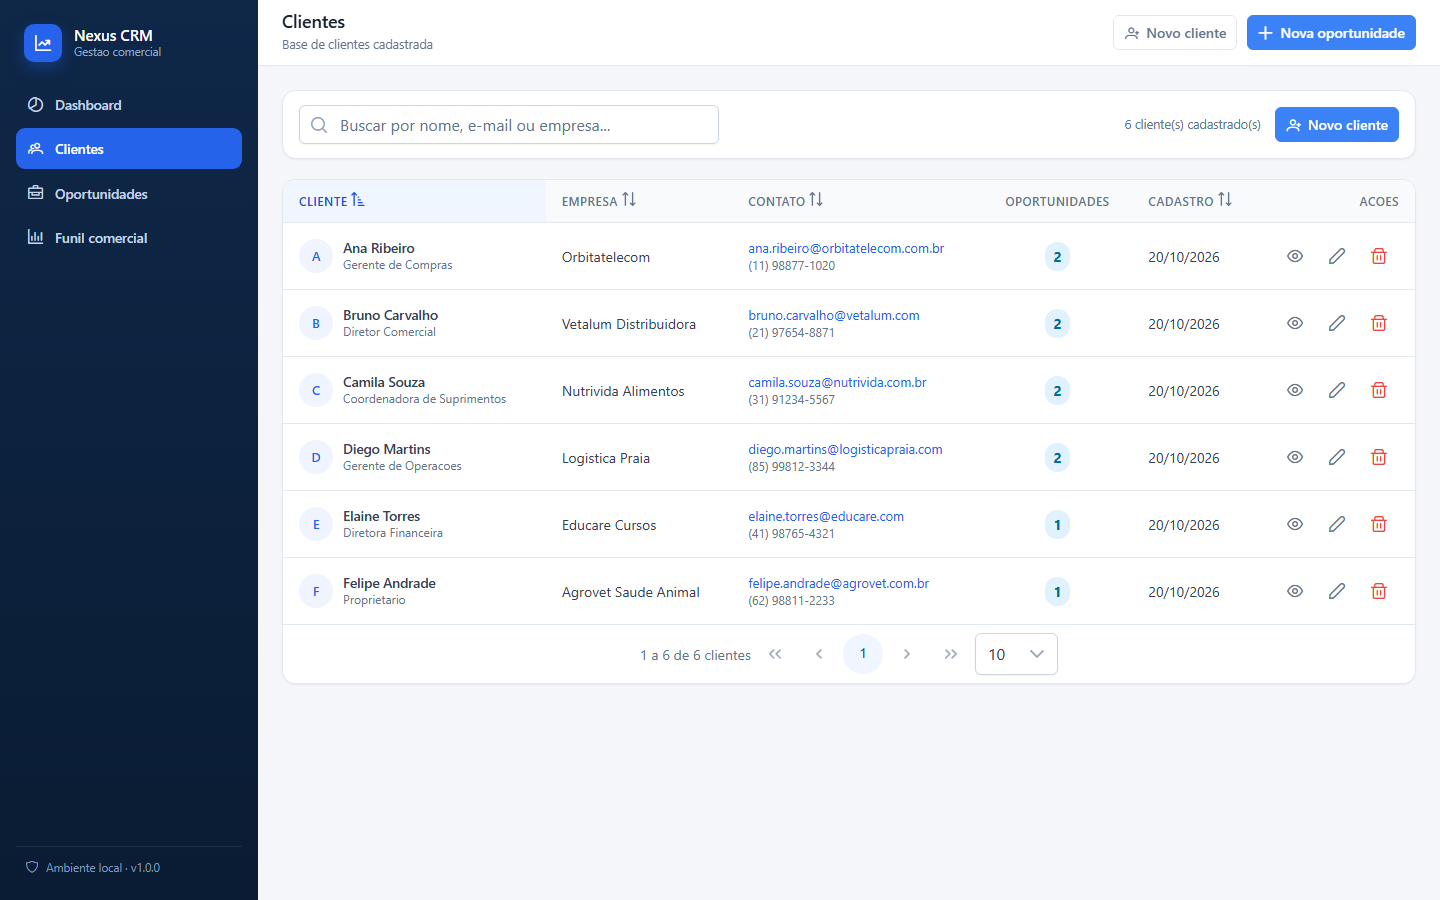
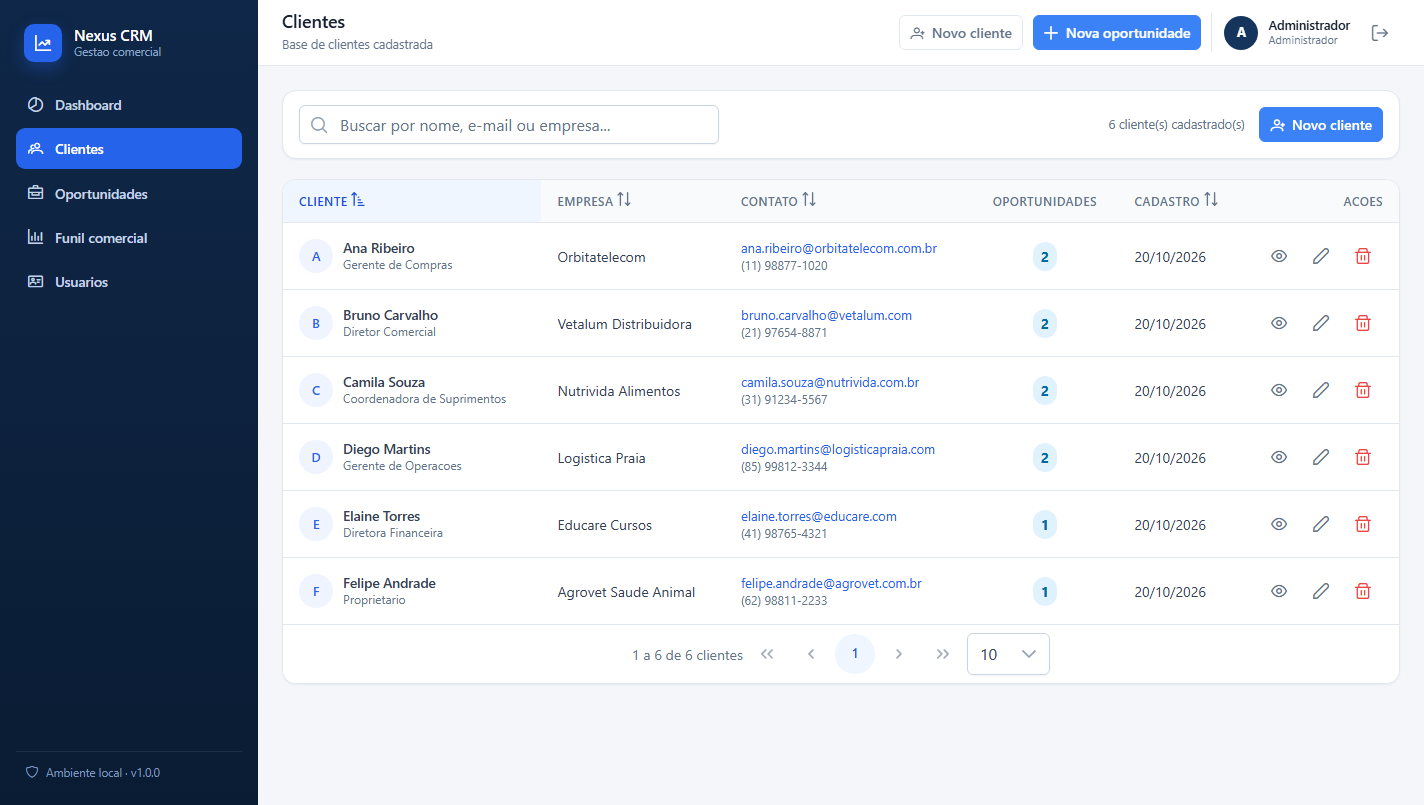
docs: document authentication and refresh the screenshots
- README: describes the authentication module, the access profiles, the
  new endpoints, the environment variables for the JWT secret and the
  initial admin user, and refreshes the test results
- README: replaces the "no authentication" limitation with the real
  constraints of the current implementation
- .env.example: adds the JWT and admin user variables
- Screenshots regenerated with the authenticated interface, plus the new
  login and user management screens

diff --git a/README.md b/README.md
@@ -20,7 +20,11 @@ movimentação entre etapas do funil e leitura de indicadores comerciais calcula
 realmente persistidos no banco.
 
 > Todo o dado exibido na interface vem da API Java. Não há números fixos, listas simuladas nem
-> persistência em `localStorage`: o front-end é apenas uma camada de apresentação sobre a API REST.
+> persistência de dados em `localStorage`: o front-end é apenas uma camada de apresentação sobre a
+> API REST. O que fica no navegador é apenas o **token de acesso** da sessão.
+
+O acesso é protegido por autenticação (Spring Security + JWT) e por perfis de acesso
+(`ADMIN`, `GERENTE` e `VENDEDOR`), com as rotas da API e da interface protegidas.
 
 ## 2. Problema que o sistema resolve
 
@@ -34,6 +38,13 @@ recorrentes:
 | Decisões sem base: "quantas vendas fechamos no mês?" | Dashboard com indicadores calculados por agregações no banco |
 
 ## 3. Funcionalidades
+
+**Autenticação e acesso**
+- Login com e-mail e senha, emissor de token JWT assinado
+- Cadastro público de novos usuários (perfil inicial: `VENDEDOR`)
+- Perfis de acesso: `ADMIN`, `GERENTE` e `VENDEDOR`
+- Proteção de todas as rotas da API e da interface
+- Encerramento de sessão e invalidação imediata do acesso ao desativar um usuário
 
 **Módulo de clientes**
 - Cadastro, edição, consulta e exclusão de clientes
@@ -73,6 +84,8 @@ recorrentes:
 | Spring Web | 3.5 | API REST |
 | Spring Data JPA | 3.5 | persistência e repositórios |
 | Spring Validation | 3.5 | validação de entrada |
+| Spring Security | 6.5 | autenticação, autorização e token JWT |
+| Spring Security OAuth2 Resource Server | 6.5 | validação do token JWT (HMAC-SHA256) |
 | Springdoc OpenAPI | 2.8 | documentação Swagger |
 | Flyway | 11 | versionamento do esquema |
 | H2 | 2.x | banco padrão de desenvolvimento |
@@ -128,13 +141,14 @@ Navegador
 
 ```
 backend/src/main/java/com/nexus/crm/
-├── config/        CORS, OpenAPI e carga opcional de demonstração
-├── controller/    Endpoints REST (clientes, oportunidades, dashboard)
+├── config/        CORS, OpenAPI, segurança e cargas iniciais
+├── controller/    Endpoints REST (clientes, oportunidades, dashboard, autenticação)
 ├── service/       Regras de negócio e cálculo de indicadores
 ├── repository/    Consultas ao banco (Spring Data JPA)
-├── model/         Entidades JPA e enumeração de etapas
+├── model/         Entidades JPA, enumeração de etapas e perfis de acesso
 ├── dto/           Records de entrada e saída da API
 ├── mapper/        Conversão entre DTO e entidade
+├── security/      Emissão e conversão do token JWT, usuário autenticado
 ├── exception/     Exceções de domínio e tratamento global de erros
 └── NexusCrmApplication.java
 ```
@@ -145,15 +159,19 @@ backend/src/main/java/com/nexus/crm/
 frontend/src/app/
 ├── core/
 │   ├── models/       Interfaces TypeScript dos dados da API
-│   ├── services/     ClienteService, OportunidadeService, DashboardService
+│   ├── services/     ClienteService, OportunidadeService, DashboardService, AuthService
+│   ├── guards/       Proteção de rotas por sessão e por perfil de acesso
+│   ├── interceptors/ Envio do token de acesso no cabeçalho Authorization
 │   ├── theme/        Preset de tema do PrimeNG
 │   └── utils/        Extração de mensagens de erro da API
 ├── layout/           Menu lateral + cabeçalho (shell da aplicação)
 ├── features/
+│   ├── auth/         Telas de login e cadastro
 │   ├── dashboard/
 │   ├── clientes/
 │   ├── oportunidades/
 │   ├── funil/
+│   ├── usuarios/     Gestão de usuários (restrito ao ADMIN)
 │   └── erro/
 ├── environments/    URL da API por ambiente
 └── app.routes.ts    Rotas da aplicação
@@ -206,7 +224,21 @@ cd backend
 
 A API sobe em <http://localhost:8080> e o H2 cria o esquema automaticamente na primeira execução.
 
-**Com dados de demonstração** (perfil `demo` — cria 6 clientes e 10 oportunidades de exemplo):
+**Usuários iniciais** — criados na primeira execução (a carga é idempotente):
+
+| Perfil | E-mail | Senha |
+| --- | --- | --- |
+| `ADMIN` | `admin@nexuscrm.local` | `Nexus@2026` |
+| `GERENTE` | `gerente@nexuscrm.local` | `Vendas@2026` |
+| `VENDEDOR` | `vendedor@nexuscrm.local` | `Vendas@2026` |
+
+> O administrador vem das propriedades `app.auth.admin.*` (variáveis `APP_ADMIN_EMAIL`,
+> `APP_ADMIN_SENHA` e `APP_ADMIN_NOME`). Os usuários `GERENTE` e `VENDEDOR` só existem com o
+> perfil `demo`. **Troque a senha do administrador antes de usar fora do ambiente local.**
+> A chave que assina o token JWT é `app.jwt.secret` (variável `APP_JWT_SECRET`).
+
+**Com dados de demonstração** (perfil `demo` — cria 6 clientes, 10 oportunidades e os usuários
+de exemplo):
 
 ```bash
 ./mvnw spring-boot:run -Dspring-boot.run.profiles=dev,demo
@@ -296,17 +328,48 @@ As migrations são aplicadas automaticamente pelo Flyway. O esquema **nunca** é
 
 ## 12. Exemplos de requisições
 
+### Autenticação
+
+```bash
+# Login (devolve o token de acesso)
+curl -X POST http://localhost:8080/api/auth/login \
+  -H "Content-Type: application/json" \
+  -d '{"email":"admin@nexuscrm.local","senha":"Nexus@2026"}'
+
+# Cadastro de um novo usuario (perfil inicial: VENDEDOR)
+curl -X POST http://localhost:8080/api/auth/registro \
+  -H "Content-Type: application/json" \
+  -d '{"nome":"Ana Ribeiro","email":"ana.ribeiro@empresa.com.br","senha":"Senha@123"}'
+
+# Dados do usuario autenticado
+curl http://localhost:8080/api/auth/me \
+  -H "Authorization: Bearer <token>"
+
+# Gestao de usuarios (restrito ao perfil ADMIN)
+curl http://localhost:8080/api/usuarios \
+  -H "Authorization: Bearer <token-do-admin>"
+```
+
+> A partir do login, **todas** as requisições precisam do cabeçalho
+> `Authorization: Bearer <token>`. Sem ele, a API responde `401`.
+
 ### Clientes
+
+> Nos exemplos a seguir, `TOKEN` é o valor devolvido pelo login:
+> `TOKEN=$(curl -s -X POST http://localhost:8080/api/auth/login -H "Content-Type: application/json" \
+> -d '{"email":"admin@nexuscrm.local","senha":"Nexus@2026"}' | jq -r .token)`
 
 ```bash
 # Listar (paginado, com busca)
-curl "http://localhost:8080/api/clientes?termo=ana&page=0&size=10&sort=nome,asc"
+curl "http://localhost:8080/api/clientes?termo=ana&page=0&size=10&sort=nome,asc" \
+  -H "Authorization: Bearer $TOKEN"
 
 # Consultar
-curl http://localhost:8080/api/clientes/1
+curl http://localhost:8080/api/clientes/1 -H "Authorization: Bearer $TOKEN"
 
 # Cadastrar
 curl -X POST http://localhost:8080/api/clientes \
+  -H "Authorization: Bearer $TOKEN" \
   -H "Content-Type: application/json" \
   -d '{
         "nome": "Ana Ribeiro",
@@ -319,21 +382,24 @@ curl -X POST http://localhost:8080/api/clientes \
 
 # Atualizar
 curl -X PUT http://localhost:8080/api/clientes/1 \
+  -H "Authorization: Bearer $TOKEN" \
   -H "Content-Type: application/json" \
   -d '{"nome":"Ana Ribeiro","email":"ana.ribeiro@empresa.com.br","empresa":"Orbitatelecom"}'
 
-# Excluir (204; 409 se houver oportunidades vinculadas)
-curl -i -X DELETE http://localhost:8080/api/clientes/1
+# Excluir (204; 409 se houver oportunidades vinculadas; 403 para o perfil VENDEDOR)
+curl -i -X DELETE http://localhost:8080/api/clientes/1 -H "Authorization: Bearer $TOKEN"
 ```
 
 ### Oportunidades
 
 ```bash
 # Listar com filtros
-curl "http://localhost:8080/api/oportunidades?clienteId=1&etapa=PROPOSTA&dataInicial=2026-01-01&dataFinal=2026-12-31"
+curl "http://localhost:8080/api/oportunidades?clienteId=1&etapa=PROPOSTA&dataInicial=2026-01-01&dataFinal=2026-12-31" \
+  -H "Authorization: Bearer $TOKEN"
 
 # Cadastrar
 curl -X POST http://localhost:8080/api/oportunidades \
+  -H "Authorization: Bearer $TOKEN" \
   -H "Content-Type: application/json" \
   -d '{
         "titulo": "Renovacao do contrato de licencas",
@@ -347,11 +413,13 @@ curl -X POST http://localhost:8080/api/oportunidades \
 
 # Avançar a etapa (409 em transições inválidas)
 curl -X PATCH http://localhost:8080/api/oportunidades/1/etapa \
+  -H "Authorization: Bearer $TOKEN" \
   -H "Content-Type: application/json" \
   -d '{"etapa":"QUALIFICACAO"}'
 
 # Marcar como perdida (motivo obrigatório)
 curl -X PATCH http://localhost:8080/api/oportunidades/1/etapa \
+  -H "Authorization: Bearer $TOKEN" \
   -H "Content-Type: application/json" \
   -d '{"etapa":"PERDIDO","motivoPerda":"Escolheu a concorrencia"}'
 ```
@@ -359,9 +427,9 @@ curl -X PATCH http://localhost:8080/api/oportunidades/1/etapa \
 ### Dashboard
 
 ```bash
-curl http://localhost:8080/api/dashboard/resumo
-curl http://localhost:8080/api/dashboard/oportunidades-por-etapa
-curl "http://localhost:8080/api/dashboard/vendas-por-periodo?meses=6"
+curl http://localhost:8080/api/dashboard/resumo -H "Authorization: Bearer $TOKEN"
+curl http://localhost:8080/api/dashboard/oportunidades-por-etapa -H "Authorization: Bearer $TOKEN"
+curl "http://localhost:8080/api/dashboard/vendas-por-periodo?meses=6" -H "Authorization: Bearer $TOKEN"
 ```
 
 ### Formato das respostas de erro
@@ -381,6 +449,8 @@ curl "http://localhost:8080/api/dashboard/vendas-por-periodo?meses=6"
 | --- | --- |
 | 200 / 201 / 204 | sucesso |
 | 400 | payload inválido (campos detalhados em `campos`) |
+| 401 | sem token, token inválido ou expirado, credenciais inválidas |
+| 403 | usuário autenticado sem o perfil exigido para a operação |
 | 404 | recurso inexistente |
 | 409 | e-mail duplicado, cliente com oportunidades, transição inválida |
 
@@ -409,15 +479,21 @@ Angular CLI 20:
 | Projeto | Comando | Resultado |
 | --- | --- | --- |
 | Back-end (unitários) | `./mvnw test` | **16 testes**, 0 falhas — `BUILD SUCCESS` |
-| Back-end (integração) | `./mvnw verify` | **18 testes**, 0 falhas — `BUILD SUCCESS` |
-| Front-end | `npm test` | **25 testes**, 0 falhas — 6 arquivos de teste |
-| Front-end (build) | `npm run build` | bundle de 1,48 MB (311 kB gzip), sem erros |
+| Back-end (integração) | `./mvnw verify` | **32 testes**, 0 falhas — `BUILD SUCCESS` |
+| Front-end | `npm test` | **32 testes**, 0 falhas — 7 arquivos de teste |
+| Front-end (build) | `npm run build` | bundle de 1,53 MB (319 kB gzip), sem erros |
 
 Cobertura dos testes back-end: cadastro válido, validação de campos inválidos, e-mail duplicado,
 cliente inexistente, exclusão bloqueada com oportunidades, cadastro de oportunidade, valor
 inválido, cliente inexistente na oportunidade, transição para ganho, transição para perda com
 motivo obrigatório, transição inválida, reabertura de oportunidade ganha e os cálculos do
 dashboard (inclusive o caso sem dados, sem divisão por zero).
+
+Cobertura dos testes de autenticação: login com credenciais válidas, senha incorreta, e-mail
+inexistente e usuário desativado; cadastro público, e-mail duplicado e senha fraca; exigência de
+token nas rotas protegidas e recusa de token inválido; perfil `VENDEDOR` bloqueado na exclusão
+(HTTP 403) e `GERENTE` autorizado; gestão de usuários restrita ao `ADMIN`; e desativação de um
+usuário derrubando o acesso da sessão na hora.
 
 ## 14. Capturas de tela
 
@@ -431,11 +507,14 @@ cd backend && ./mvnw spring-boot:run -Dspring-boot.run.profiles=dev,demo
 # 2. subir o front-end
 cd frontend && npm start
 
-# 3. capturar a tela (exemplo com Chrome headless)
+# 3. capturar a tela de login (não exige sessão)
 chrome --headless=new --disable-gpu --hide-scrollbars \
   --window-size=1440,900 --virtual-time-budget=8000 \
-  --screenshot=docs/screenshots/dashboard.png http://localhost:4200/dashboard
+  --screenshot=docs/screenshots/login.png http://localhost:4200/login
 ```
+
+> As telas internas exigem sessão. Para capturá-las, faça o login no navegador antes de rodar o
+> comando, ou use um perfil do Chrome já autenticado.
 
 | Dashboard | Clientes |
 | --- | --- |
@@ -449,9 +528,13 @@ chrome --headless=new --disable-gpu --hide-scrollbars \
 | --- | --- |
 | ![Cadastro de cliente](docs/screenshots/cliente-form.png) | ![Detalhes do cliente](docs/screenshots/cliente-detalhes.png) |
 
-| Cadastro de oportunidade | |
+| Cadastro de oportunidade | Login |
 | --- | --- |
-| ![Cadastro de oportunidade](docs/screenshots/oportunidade-form.png) | |
+| ![Cadastro de oportunidade](docs/screenshots/oportunidade-form.png) | ![Login](docs/screenshots/login.png) |
+
+| Gestão de usuários (ADMIN) |
+| --- |
+| ![Usuários](docs/screenshots/usuarios.png) |
 
 ## 15. Decisões técnicas
 
@@ -495,15 +578,41 @@ Cada tela é um componente standalone com seu próprio HTML/SCSS, importando ape
 utiliza. O bundle inicial fica em ~311 kB (gzipped) apesar da biblioteca de UI completa.
 
 **Testes de integração reais no back-end.**
-`ClienteControllerIT`, `OportunidadeControllerIT` e `DashboardControllerIT` sobem o contexto
-Spring completo com H2 em memória e validam status HTTP e corpo da resposta — não apenas a lógica
-de negócio isolada.
+`ClienteControllerIT`, `OportunidadeControllerIT`, `DashboardControllerIT` e `AuthControllerIT` sobem
+o contexto Spring completo com H2 em memória e validam status HTTP e corpo da resposta — não
+apenas a lógica de negócio isolada.
+
+**Autenticação stateless com token JWT.**
+A API não guarda sessão: cada requisição carrega um token assinado com HMAC-SHA256 no cabeçalho
+`Authorization`. Isso mantém a API horizontalmente escalável e evita o acoplamento do back-end com
+a origem do front-end. A chave vive em `app.jwt.secret` e deve ser trocada por um valor aleatório
+em produção.
+
+**O usuário é recarregado do banco a cada requisição.**
+`ConversorJwtAuthentication` ignora os perfis gravados no token e busca o usuário novamente. Assim,
+alterar o perfil de acesso ou desativar um usuário tem efeito imediato, sem esperar a expiração do
+token.
+
+**As regras de autorização ficam centralizadas.**
+O `SecurityConfig` define, em um único lugar, quais rotas exigem sessão e quais exigem um perfil
+específico. A interface apenas esconde os botões que o usuário não pode usar — mas quem decide é
+sempre a API, que responde `403` se a operação for tentada de qualquer forma.
+
+**Senhas nunca são gravadas em texto puro.**
+O `BCryptPasswordEncoder` calcula o hash no cadastro e no login. O hash é o que vai para o banco;
+a senha em claro nunca é persistida nem devolvida pela API.
 
 ## 16. Limitações conhecidas
 
-- **Sem autenticação.** A primeira versão é local e não implementa login (nada de autenticação
-  fictícia). Qualquer pessoa com acesso à porta 8080 usa a API. As rotas não estão protegidas.
-- **Usuário único.** Não há multiusuário, nem histórico de *quem* alterou um registro.
+- **Token no `localStorage`.** A sessão é mantida no armazenamento do navegador, o que expõe o
+  token a ataques de XSS. Para uma versão em produção, prefira um cookie `HttpOnly` com `SameSite`.
+- **Sem refresh token.** A sessão expira em 8 horas (`app.jwt.expiracao-minutos`) e o usuário
+  precisa entrar de novo. Não há renovação automática.
+- **Sem recuperação de senha.** Não existe fluxo de "esqueci minha senha" nem envio de e-mail.
+- **Sem histórico de auditoria.** Os registros não guardam *quem* criou ou alterou cada cliente e
+  oportunidade, apenas as datas.
+- **Sem segregação de dados por vendedor.** Todos os usuários autenticados veem a base completa de
+  clientes e oportunidades; o perfil `VENDEDOR` apenas não pode excluir registros.
 - **Busca textual simples.** A busca de clientes usa `LIKE` sobre três campos; não há busca
   full-text nem tolerância a erros de digitação.
 - **Relatórios são apenas os do dashboard.** Não há exportação para CSV/PDF nem relatórios
@@ -518,8 +627,10 @@ de negócio isolada.
 
 ## 17. Melhorias futuras
 
-- Autenticação real (Spring Security + JWT) e proteção das rotas por perfil de usuário
-- Perfis de acesso (vendedor, gerente, administrador) e registro de auditoria
+- Refresh token e cookie `HttpOnly` com `SameSite`, em vez do `localStorage`
+- Fluxo de recuperação de senha e troca de senha pelo próprio usuário
+- Registro de auditoria (quem criou ou alterou cada registro)
+- Segregação de dados: cada vendedor ver apenas os próprios clientes e oportunidades
 - Relatórios exportáveis (CSV) e metas por mês/seller
 - E-mail de acompanhamento automático ao cliente e ao vendedor
 - Importação de contatos via CSV
@@ -540,6 +651,8 @@ npm install
 npm start                                                    # http://localhost:4200
 npm test                                                     # testes
 ```
+
+**Acesso à aplicação:** <http://localhost:4200> · `admin@nexuscrm.local` / `Nexus@2026`
 
 ## 19. Licença
 
